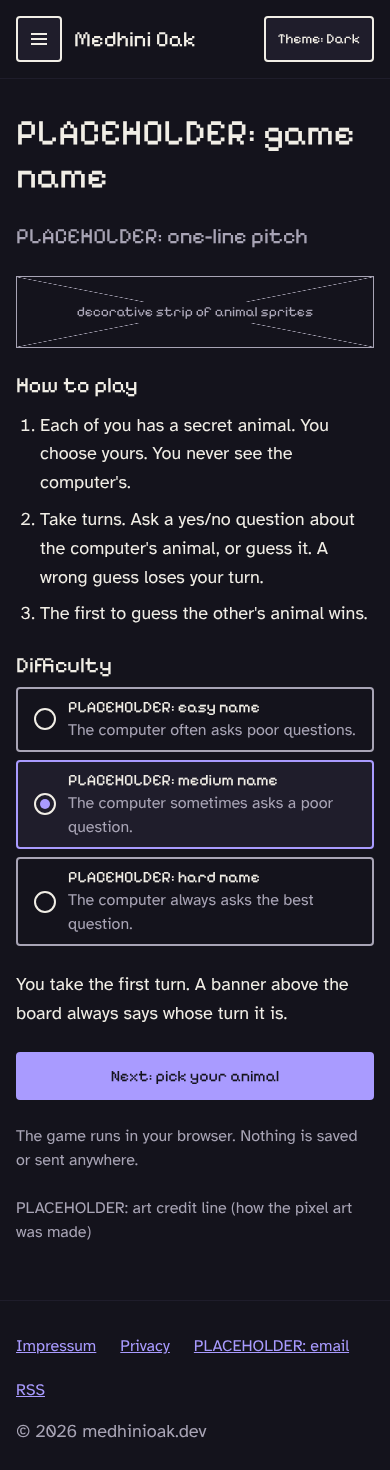
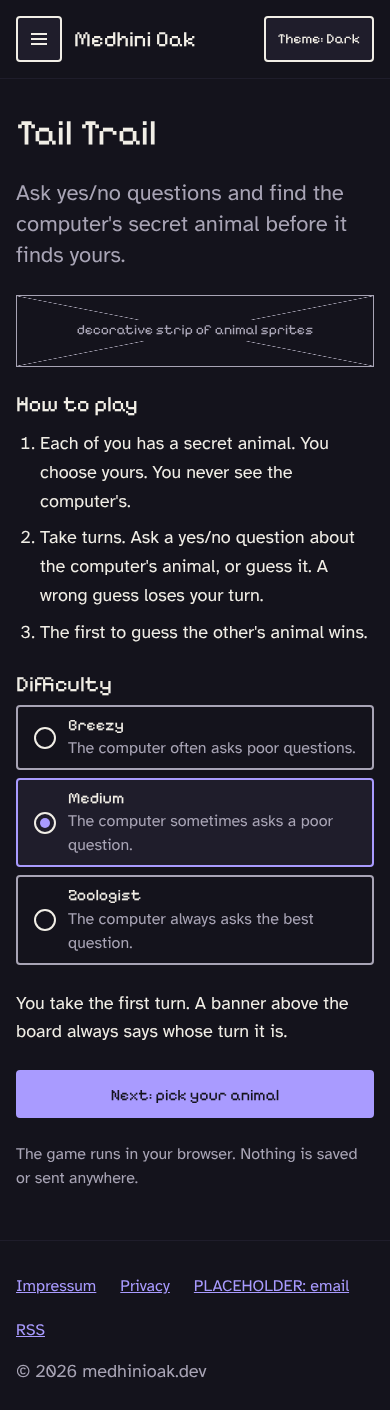
docs: name the game Tail Trail and set difficulty names
Game name Tail Trail, difficulty names Breezy, Medium and Zoologist, a
proposed one-line pitch. Drop the art credit line and the AI image tool
decision from the spec, ADR-0012 and the wireframes.

Claude-Session: https://claude.ai/code/session_013mFTnzNkdFATgFDQn39AGq

diff --git a/docs/game/spec.md b/docs/game/spec.md
@@ -15,13 +15,14 @@ and the owner has not confirmed it.
 
 | Topic | Decision | Status |
 |---|---|---|
-| Name | `PLACEHOLDER: game name`. Original; must not imitate "Guess Who?" (a third-party trademark) | Open |
+| Name | **Tail Trail**. Original; must not imitate "Guess Who?" (a third-party trademark) | Decided |
+| Pitch | "Ask yes/no questions and find the computer's secret animal before it finds yours." | Proposed wording |
 | Art style | Pixel art, **AI-assisted drafts, then edited by the owner** | Decided; see [Art plan](#art-plan) |
 | Animals | 24, all drawn from the start; Lion and Jellyfish replaced Gecko and Goldfish. The first 16 are the cut-line fallback ([ADR-0005](../adr/0005-deduction-game-with-board-packs.md)) | Decided |
 | Questions | A fixed list of 68 yes/no questions in five groups, with a **type-to-filter** box. No free-text questions: the answers come from the board data | Decided |
 | Ruled-out marks | Both: automatic, with manual override | Decided |
 | A wrong guess | Loses the turn; the game goes on | Decided |
-| Difficulty names | `PLACEHOLDER: easy name`, `PLACEHOLDER: medium name`, `PLACEHOLDER: hard name` (ids `easy`, `medium`, `hard`) | Open |
+| Difficulty names | Breezy, Medium, Zoologist (ids `easy`, `medium`, `hard`) | Decided |
 | Who starts | The player. A turn banner above the board says whose turn it is and what the computer just did | Decided |
 | Your animal | The player picks it, or taps "Surprise me" for a random one. The computer's animal is random | Decided |
 | Computer's board | The player can see the computer's own board: the animals it still thinks yours could be | Decided |
@@ -288,7 +289,7 @@ never a useless one):
 | `hard` | 0 | Always the best question |
 
 These are starting values to tune while play-testing; the names shown to the player are
-`PLACEHOLDER: easy name`, `PLACEHOLDER: medium name`, `PLACEHOLDER: hard name`.
+Breezy (`easy`), Medium (`medium`) and Zoologist (`hard`).
 ADR-0005 allows a cut to two difficulties: drop `medium`.
 
 **Fairness.** The computer reads only the answers it has been given, never the player's
@@ -493,11 +494,10 @@ runs without the site.
 - **Format.** One SVG file per animal, made of square pixels, in
   `packages/game/src/boards/animals/sprites/<id>.svg`. The pack's `sprite` field is the
   file name without `.svg`.
-- **Process.** Drafts may be made with an AI image tool and are then redrawn or edited
-  by the owner on the pixel grid. The finished sprite is the owner's. This is a
-  decision about how the art is made, so it is recorded in
-  [ADR-0012](../adr/0012-game-art-is-ai-assisted-pixel-art-edited-by-the-owner.md), and
-  the tool used goes into [`ai-usage.md`](../ai-usage.md) once it is chosen.
+- **Process.** Drafts may be made with AI assistance and are then redrawn or edited by
+  the owner on the pixel grid. The finished sprite is the owner's. This is a decision
+  about how the art is made, so it is recorded in
+  [ADR-0012](../adr/0012-game-art-is-ai-assisted-pixel-art-edited-by-the-owner.md).
 - **Checklist for each sprite.** Original (not copied from or imitating an existing
   character or brand, as ADR-0005 requires); the tool's terms allow the use; readable
   at 64 px wide; still recognisable with a 2 px blur (the ruled-out look) and at 32 px
@@ -534,9 +534,7 @@ non-goals ([`plan.md`](../plan.md#non-goals)). Ideas go to
 
 ## Open questions
 
-1. The game's name, the one-line pitch and the three difficulty names.
+1. Is the one-line pitch right? Change the wording in [Decisions](#decisions).
 2. Are the 68 questions and 24 animals right? Check the "Yes for" column and the
    "How to read it" notes, change a value or swap an animal, then re-run the checks in
    [the animals board](#the-animals-board).
-3. Which AI image tool the drafts come from, and its terms.
-4. Wording of the art credit line on the game page.

diff --git a/docs/adr/0012-game-art-is-ai-assisted-pixel-art-edited-by-the-owner.md b/docs/adr/0012-game-art-is-ai-assisted-pixel-art-edited-by-the-owner.md
@@ -20,9 +20,8 @@ their terms and in how they were trained.
 
 Draft each animal sprite with an AI image tool, then redraw or edit it by hand on the
 32 × 32 pixel grid, so the published sprite is the owner's work. The owner approves every
-sprite. The tool, its terms and the date go into [`ai-usage.md`](../ai-usage.md) once the
-tool is chosen. The checklist for each sprite is in [`game/spec.md`](../game/spec.md#art-plan):
-original, allowed by the tool's terms, readable at 80 px wide, with alt text.
+sprite. The checklist for each sprite is in [`game/spec.md`](../game/spec.md#art-plan):
+original, allowed by the tool's terms, readable at 64 px wide, with alt text.
 
 ## Alternatives considered
 
@@ -36,11 +35,7 @@ original, allowed by the tool's terms, readable at 80 px wide, with alt text.
 ## Consequences
 
 - The art is faster to make, so all 24 animals are realistic.
-- A tool's terms and its training data are a real choice, not a detail. Picking the tool
-  is a step in the art issue, and the choice is recorded.
 - The pixel-grid edit is what makes each sprite the owner's; skipping it for a sprite
   breaks this decision.
-- The game page should say how the art was made (a short credit line); the wording is
-  decided with the interface.
-- Revisit if the tool's terms change, if a sprite cannot be made original, or if hand
-  drawing turns out to be as fast.
+- Revisit if a sprite cannot be made original, or if hand drawing turns out to be as
+  fast.

diff --git a/docs/design/wireframes.md b/docs/design/wireframes.md
@@ -217,8 +217,8 @@ board).
 **Start.** The 736 px text column. Heading and one-line pitch, a decorative strip of
 sprites, "How to play" in three steps, a difficulty radio group (the selected one is
 marked by its dot as well as its border), a line saying you take the first turn, a "Next:
-pick your animal" button, a line saying the game runs in the browser and saves nothing,
-and the art credit line.
+pick your animal" button, and a line saying the game runs in the browser and saves
+nothing.
 
 **Pick your animal.** The 24 animals as cards. The chosen one has a thick border, a tick
 and the words "your pick". "Start with the penguin" begins the game, "Surprise me" picks
